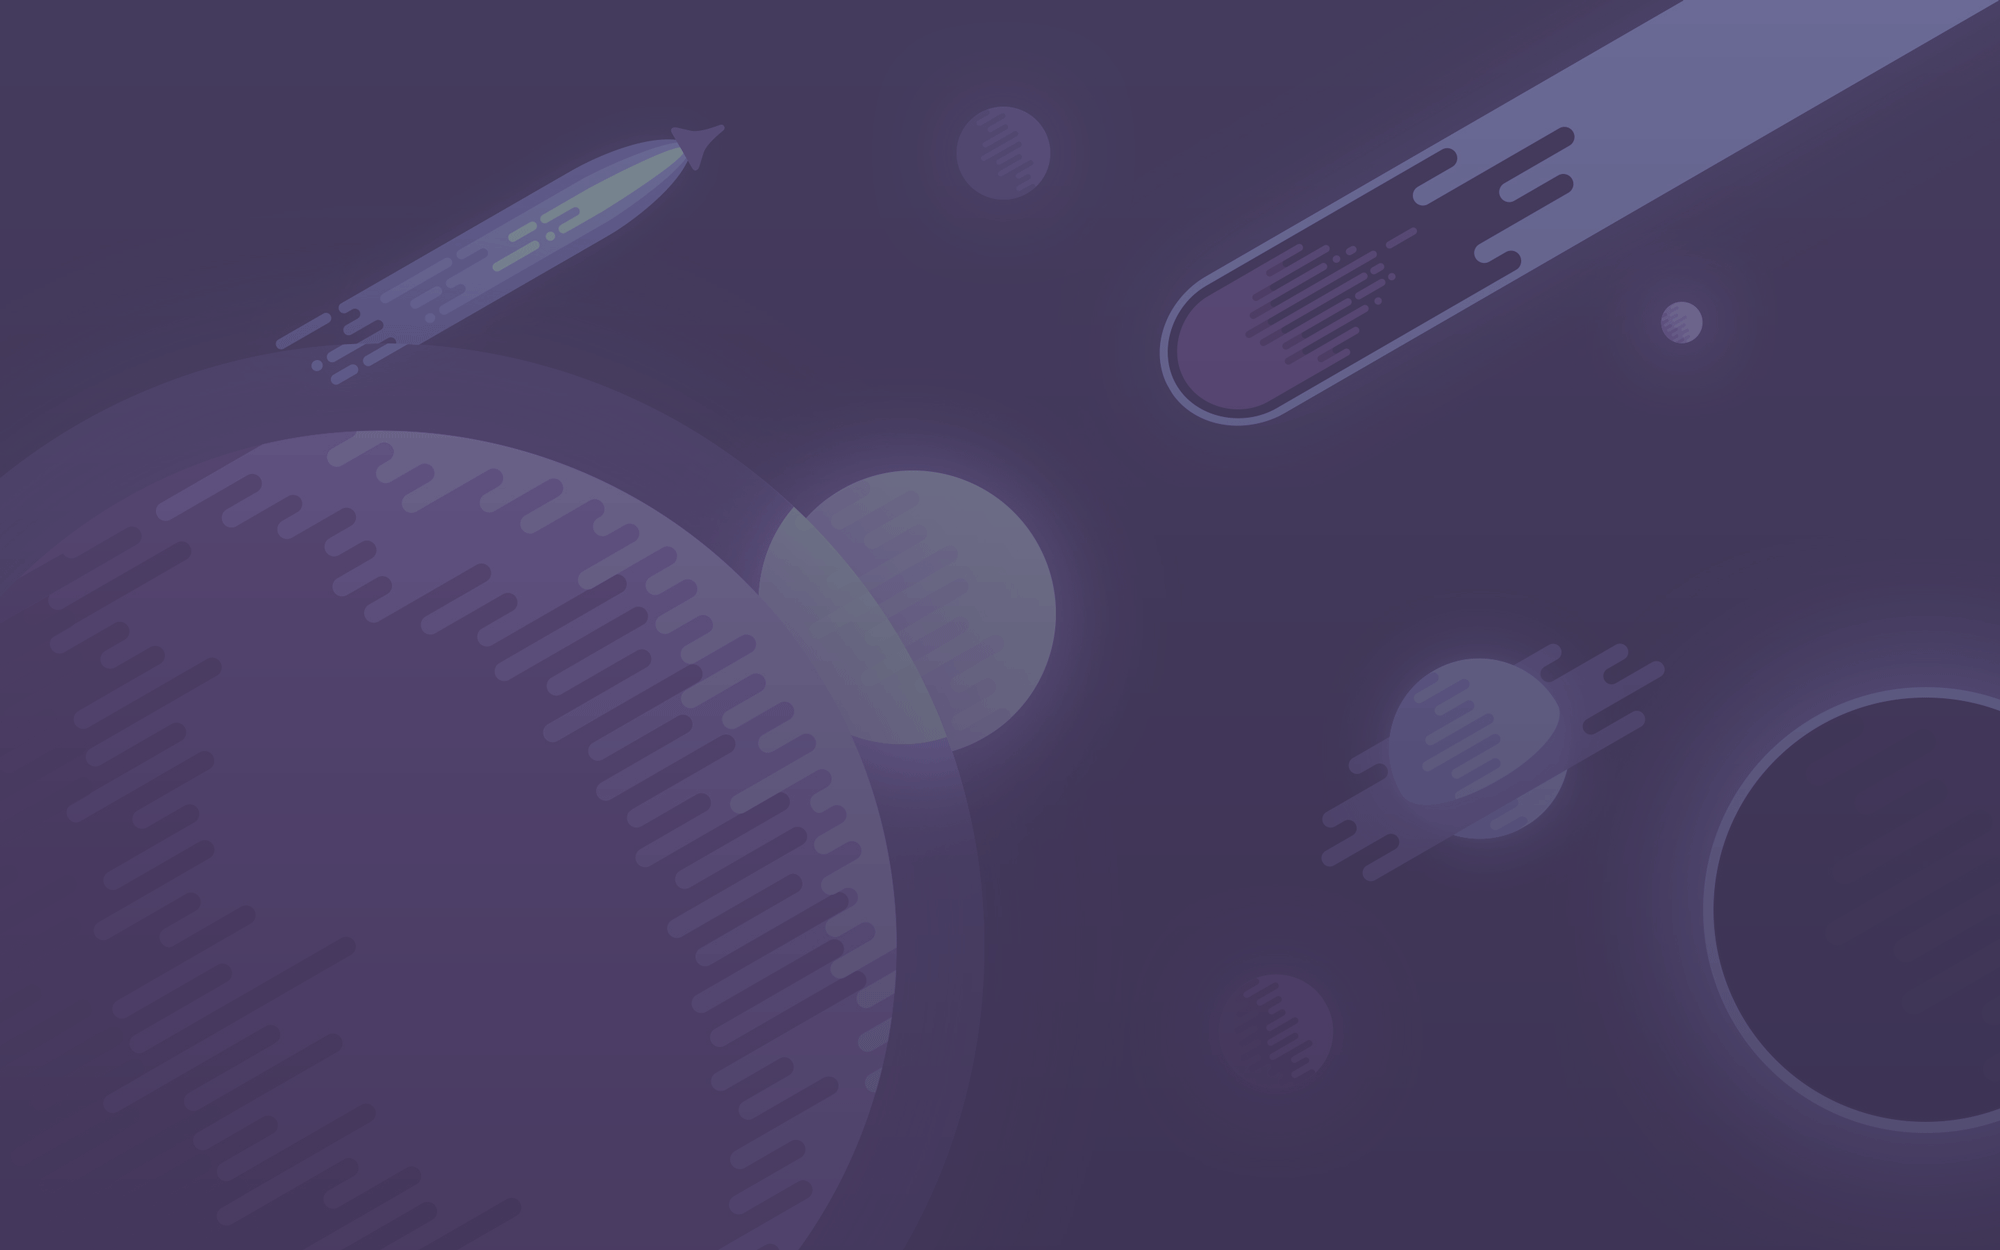
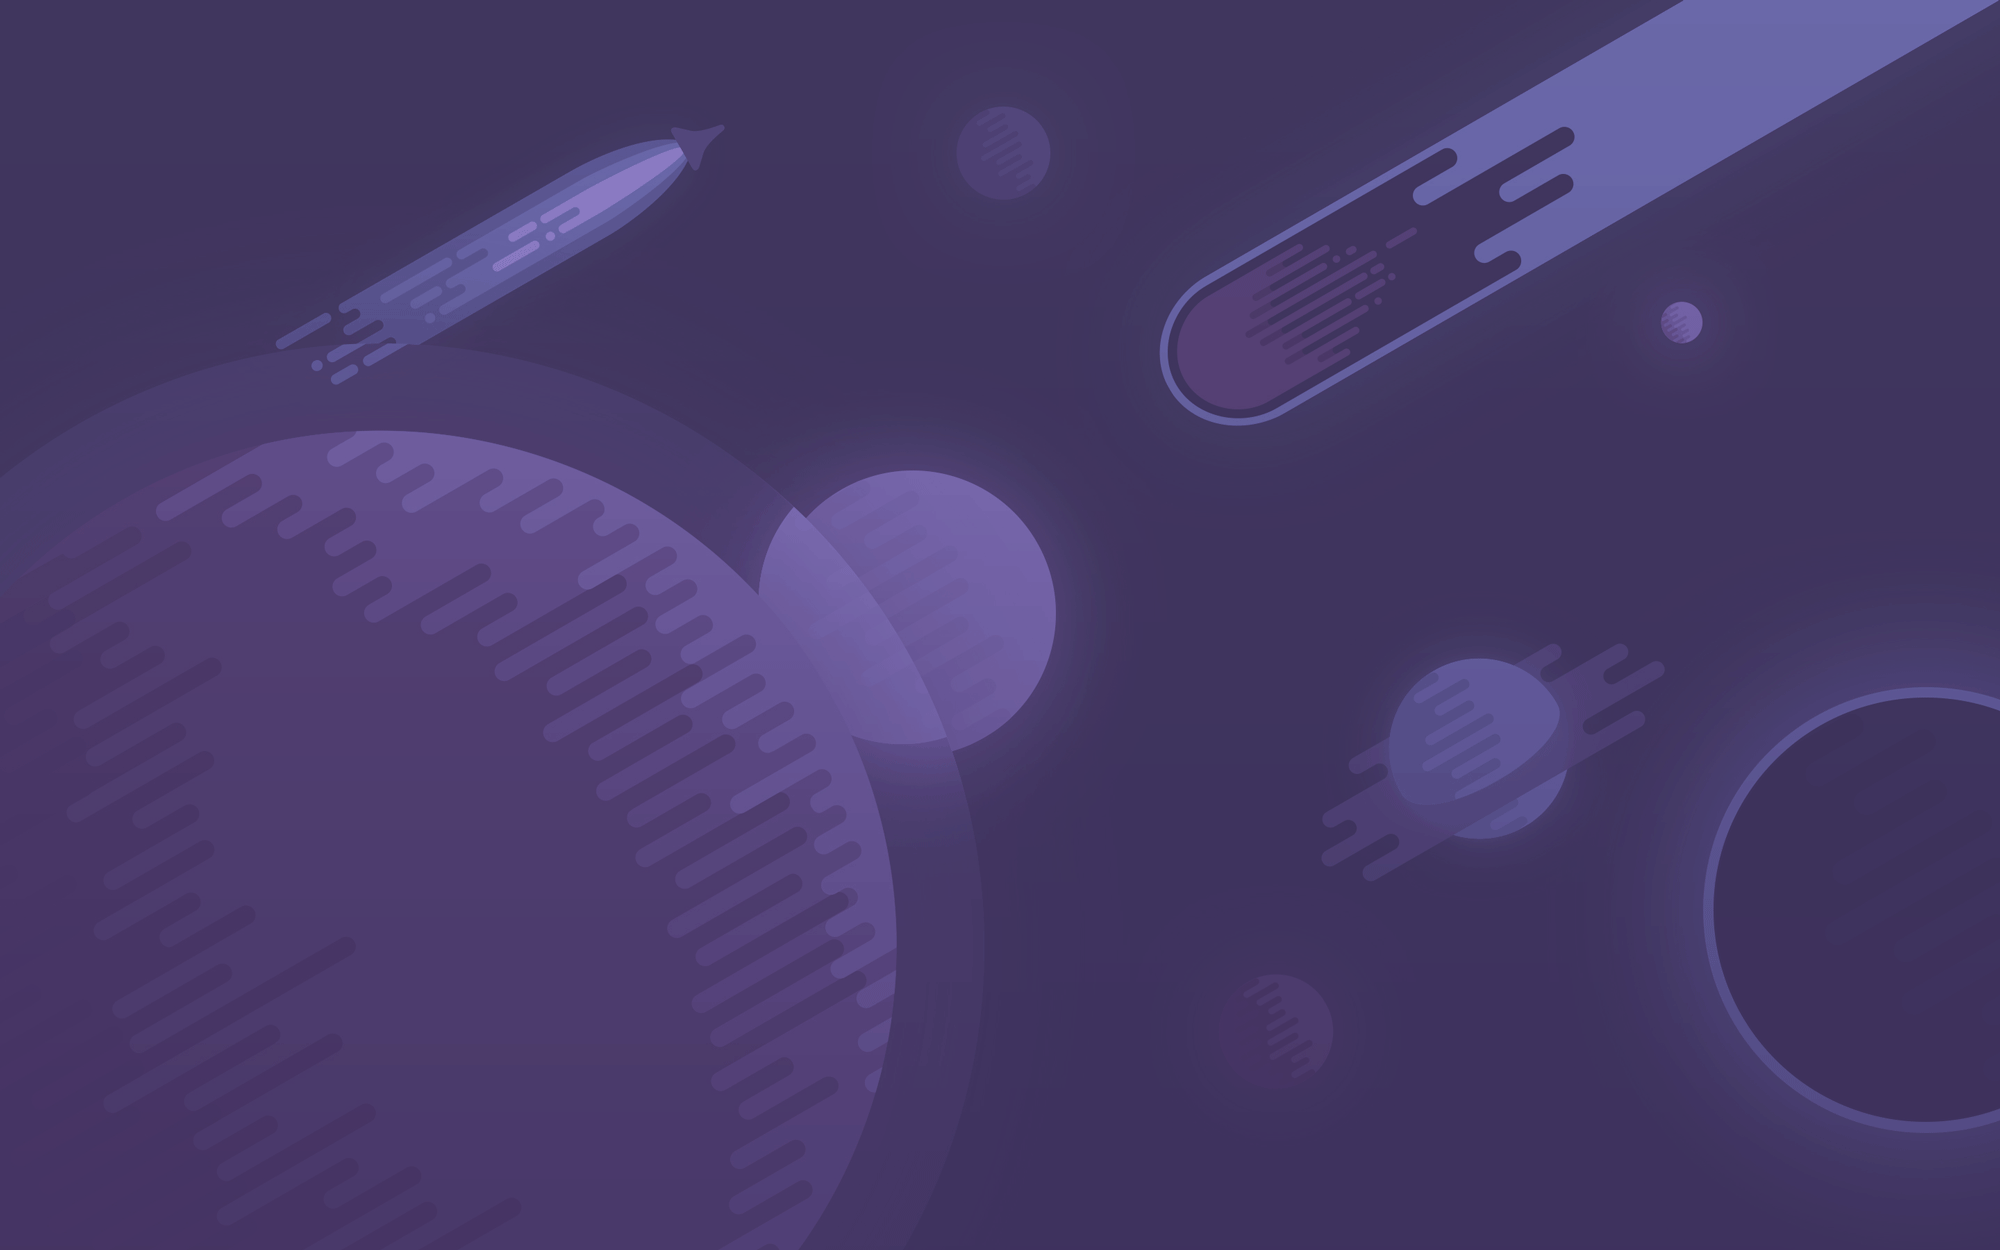
more work

diff --git a/packages/crater/lib/custom_fields.js b/packages/crater/lib/custom_fields.js
@@ -1,0 +1,39 @@
+import React, { PropTypes, Component } from 'react';
+import PublicationUtils from 'meteor/utilities:smart-publications';
+import Tags from 'meteor/nova:forms-tags';
+import Posts from "meteor/nova:posts";
+import Users from "meteor/nova:users";
+import Categories from "meteor/nova:categories";
+
+const canInsert = user => Users.canDo(user, "posts.new");
+const canEdit = Users.canEdit;
+const canEditAll = user => Users.canDo(user, "posts.edit.all");
+
+Posts.addField([
+  {
+    fieldName: 'categories',
+    fieldSchema: {
+      type: [String],
+      control: Tags,
+      optional: true,
+      insertableIf: canInsert,
+      editableIf: canEdit,
+      autoform: {
+        options: function () {
+          var categories = Categories.find().map(function (category) {
+            return {
+              value: category._id,
+              label: category.name
+            };
+          });
+          return categories;
+        }
+      },
+      publish: true,
+      join: {
+        joinAs: "categoriesArray",
+        collection: () => Categories
+      }
+    }
+  }
+]);

diff --git a/packages/crater/lib/stylesheets/_posts.scss b/packages/crater/lib/stylesheets/_posts.scss
@@ -4,32 +4,12 @@
 
 .posts-list-content{
   border-top: none;
-  margin-top: none;
+  margin: 0;
 }
 .posts-item{
-  // padding: 0;
-  // margin-bottom: 25px;
   padding: 20px 30px;
   position: relative;
   border-bottom: 1px dashed $border-color;
-  // &:after, &:before{
-  //   content: " ";
-  //   display: block;
-  //   position: absolute;
-  //   border-radius: 100%;
-  //   height: 10px;
-  //   width: 10px;
-  //   // background: #EEEEEE;
-  //   background: #EEEEEE linear-gradient(to bottom, #cccccc 0%, #EEEEEE 60%);
-  //   top: 50%;
-  //   margin-top: -5px;
-  // }
-  // &:before{
-  //   left: 15px;
-  // }
-  // &:after{
-  //   right: 15px;
-  // }
   &:first-child{
     padding-top: 0;
   }
@@ -39,7 +19,7 @@
   font-size: 1.25rem;
 }
 .posts-item-meta{
-  font-style: 0.8rem;
+  font-size: 0.8rem;
 }
 .posts-thumbnail{
   display: none;
@@ -60,4 +40,11 @@
     padding: 20px 30px;
     border-top: none;
   }
+}
+
+.posts-no-more{
+  padding: 30px;
+  margin: 0;
+  text-align: center;
+  @include secondary-font;
 }

diff --git a/packages/crater/lib/stylesheets/_global.scss b/packages/crater/lib/stylesheets/_global.scss
@@ -1,7 +1,7 @@
 
 
 body{
-  background: #eeeeee;
+  background: $grey;
 
   @include primary-font;
 }
@@ -34,9 +34,7 @@ a{
 .main-column{
   flex-grow: 1;
   background: #fff;
-  padding: 0px 0px 30px 0px;
-  margin-right: 30px;
-  // margin-top: -5px;
+  margin: 0 30px 30px 0;
   position: relative;
   z-index: 10;
   border-radius: 0 0 5px 5px;
@@ -55,7 +53,7 @@ a{
     display: block;
     content: " ";
     // background: #aca6b9;
-    background: #bbb6c8 linear-gradient(to top, #908b9e 0%, #aaa5b6 50%);
+    background: $light-purple linear-gradient(to top, #908b9e 0%, #aaa5b6 50%);
     height: 20px;
     position: absolute;
     top: -20px;
@@ -71,6 +69,9 @@ a{
   margin-top: 60px;
   margin-bottom: 90px;
   border: 1px solid white(0.2);
+}
+.newsletter-tagline{
+  margin-right: 20px;
 }
 
 .btn{

diff --git a/packages/crater/lib/components/CrLayout.jsx b/packages/crater/lib/components/CrLayout.jsx
@@ -23,9 +23,9 @@ class CrLayout extends Component {
 
             <Telescope.components.Header {...this.props}/>
 
-            <FlashContainer component={Telescope.components.FlashMessages}/>
-
             <Telescope.components.Newsletter />
+
+            <FlashContainer component={Telescope.components.FlashMessages}/>
 
           </div>
 

diff --git a/packages/crater/lib/stylesheets/_colors.scss b/packages/crater/lib/stylesheets/_colors.scss
@@ -1,7 +1,8 @@
-$grey: #bbb6c8;
+$grey: #eeeeee;
+$light-purple: #bbb6c8;
 $purple: #6B519E;
 $blue: #60ceee;
 
 $primary-color: $purple;
 $secondary-color: $blue;
-$border-color: $grey;
+$border-color: $light-purple;

diff --git a/packages/crater/lib/components/CrPodcast.jsx b/packages/crater/lib/components/CrPodcast.jsx
@@ -5,7 +5,7 @@ const CrPodcast = () => {
   return (
     <div className="podcast">
 
-      podcast
+      *podcast goes here*
 
     </div>
   )

diff --git a/packages/crater/lib/modules.js b/packages/crater/lib/modules.js
@@ -1,3 +1,4 @@
 import './components.js';
 import './routes.js';
 import './strings.js';
+import './custom_fields.js';
